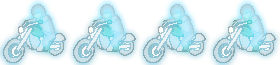
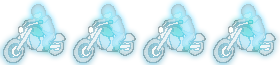
added motorcycle dude

diff --git a/myExpressFolder/public/src/js/game/Render.js b/myExpressFolder/public/src/js/game/Render.js
@@ -85,9 +85,9 @@ define(['img/ImageManager'],function(ImageManager) {
                     this.ctx.drawImage(ancImg, activeAncestors[i].animFrame * 50,0,50,50,activeAncestors[i].xCoord + this.viewTransform.t_offset_X + this.ancestorXBuffer,activeAncestors[i].yCoord + this.viewTransform.t_offset_Y + this.ancestorYBuffer,80,80);
                     break;
                 case "nameless":
-                    ancImg = this.imageManager.getImage(ImageManager.ANC_NMLS);
+                    ancImg = this.imageManager.getImage(ImageManager.ANC_MOTR);
                     // this.ctx.drawImage(ancImg, activeAncestors[i].xCoord + this.viewTransform.t_offset_X + this.ancestorXBuffer, activeAncestors[i].yCoord + this.viewTransform.t_offset_Y + this.ancestorYBuffer);
-                    this.ctx.drawImage(ancImg, activeAncestors[i].animFrame * 70,0,70,65,activeAncestors[i].xCoord + this.viewTransform.t_offset_X + this.ancestorXBuffer,activeAncestors[i].yCoord + this.viewTransform.t_offset_Y + this.ancestorYBuffer,70,65);
+                    this.ctx.drawImage(ancImg, activeAncestors[i].animFrame * 70,0,70,65,activeAncestors[i].xCoord + this.viewTransform.t_offset_X + this.ancestorXBuffer,activeAncestors[i].yCoord + this.viewTransform.t_offset_Y + this.ancestorYBuffer,112,104);
                     break;
                 default:
                     ancImg = this.imageManager.getImage(ImageManager.ANC_STAN);

diff --git a/myExpressFolder/public/src/js/img/ImageManager.js b/myExpressFolder/public/src/js/img/ImageManager.js
@@ -375,7 +375,7 @@ define(["../util/Order", "util/Sig", "util/LoaderUtils"], function(Order, Sig, L
 
     ImageManager.ANC_STAN =     "src/img/ancestors/animAnc.png";            // STANDARD ANCESTOR
     ImageManager.ANC_NMLS =     "src/img/ancestors/FarmerSprite.png";       // NAMELESS ANCESTOR
-    ImageManager.ANC_MOTR =     "src/img/ancestors/Ghostorist2.png";        // MOTORCYCLE ANCESTOR
+    ImageManager.ANC_MOTR =     "src/img/ancestors/Ghostorist.png";        // MOTORCYCLE ANCESTOR
 
     ImageManager.STY_TELL =     "src/img/Storyteller.png";                  // STORY TELLER
 

diff --git a/myExpressFolder/public/src/js/Commander.js b/myExpressFolder/public/src/js/Commander.js
@@ -13,7 +13,7 @@ define(['util/Sig', 'game/GameController','LevelDefinition','game/ViewTransform'
         this.gameController = null;
         this.levelsController = null;
         this.upgradesController = null;
-        this.currentFocusLevel = {act: 2, scene: 1};
+        this.currentFocusLevel = {act: 3, scene: 2};
         this.userInformation = null;
         this.buttonFocus = this.gameController;
 
